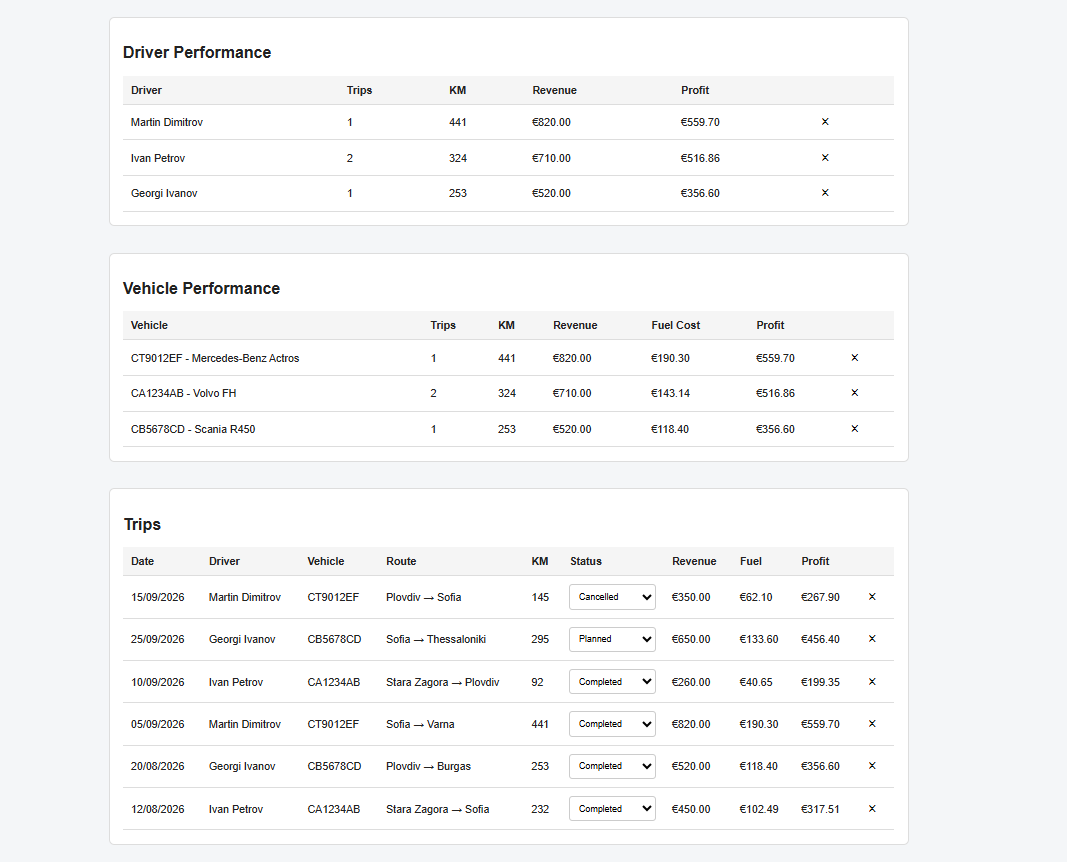
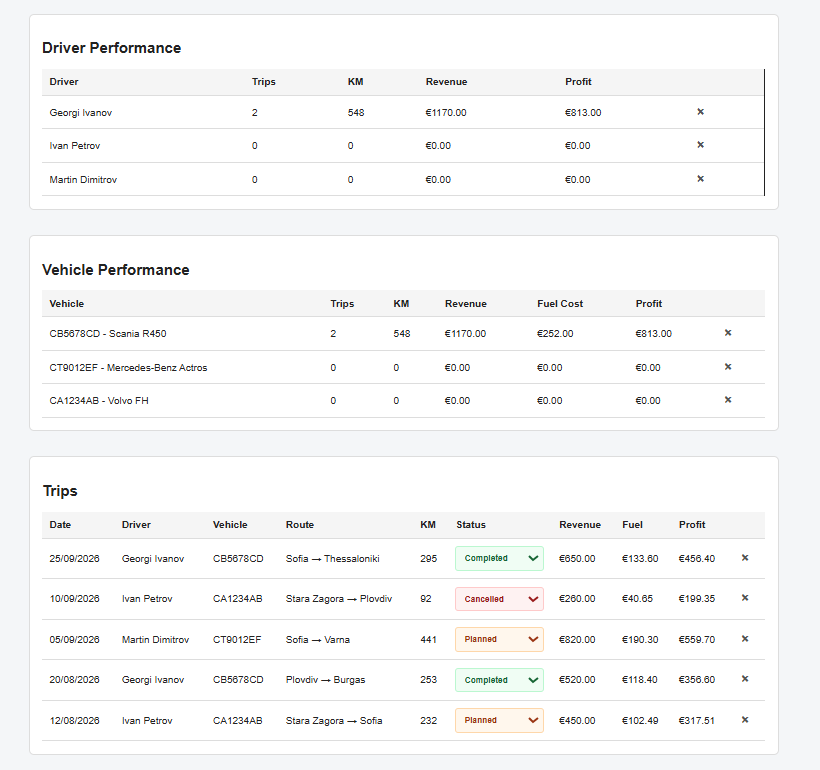
Update README and screenshots

diff --git a/README.md b/README.md
@@ -14,6 +14,8 @@ The idea is a simple internal tool for a transport company. It keeps information
 - Revenue, costs and profit tracking
 - Planned, Completed and Cancelled trip statuses
 - Driver and vehicle performance overview
+- Input validation for drivers, vehicles and trips
+- Duplicate vehicle registration protection
 - PostgreSQL database storage
 
 The financial dashboard includes completed trips only.
@@ -35,9 +37,9 @@ The financial dashboard includes completed trips only.
 
 When a trip is added, the app gets the coordinates for the origin and destination using Open-Meteo.
 
-The coordinates are sent to openrouteservice to get the route distance and estimated travel time.
+The coordinates are then sent to openrouteservice to get the route distance and estimated travel time.
 
-The app then reads the selected vehicle's average fuel consumption from PostgreSQL and calculates the estimated fuel cost based on the distance and fuel price.
+The app reads the selected vehicle's average fuel consumption from PostgreSQL and calculates the estimated fuel cost based on the distance and fuel price.
 
 The trip is saved in PostgreSQL and the dashboard is updated with the new data.
 
@@ -60,6 +62,12 @@ The project uses three main tables:
 - `trips`
 
 Trips are linked to drivers and vehicles using foreign keys.
+
+## Validation
+
+The API validates required data before saving it.
+
+Vehicle registrations are stored in uppercase, invalid fuel consumption values are rejected, and duplicate registrations are not allowed.
 
 ## Main API routes
 
@@ -100,6 +108,12 @@ Run the database schema:
 psql -U postgres -d transport_operations -f sql/schema.sql
 ```
 
+Optional demo data:
+
+```bash
+psql -U postgres -d transport_operations -f sql/demo-data.sql
+```
+
 Create a `.env` file using `.env.example` and add your PostgreSQL password and openrouteservice API key.
 
 Start the application:
@@ -110,9 +124,7 @@ npm run dev
 
 Open:
 
-```text
 http://localhost:3000
-```
 
 ## Why I built it
 
